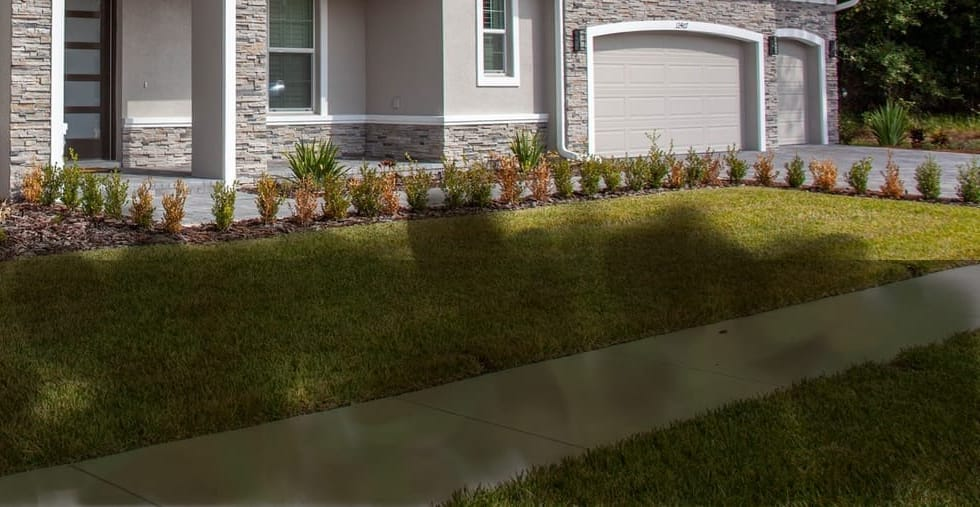
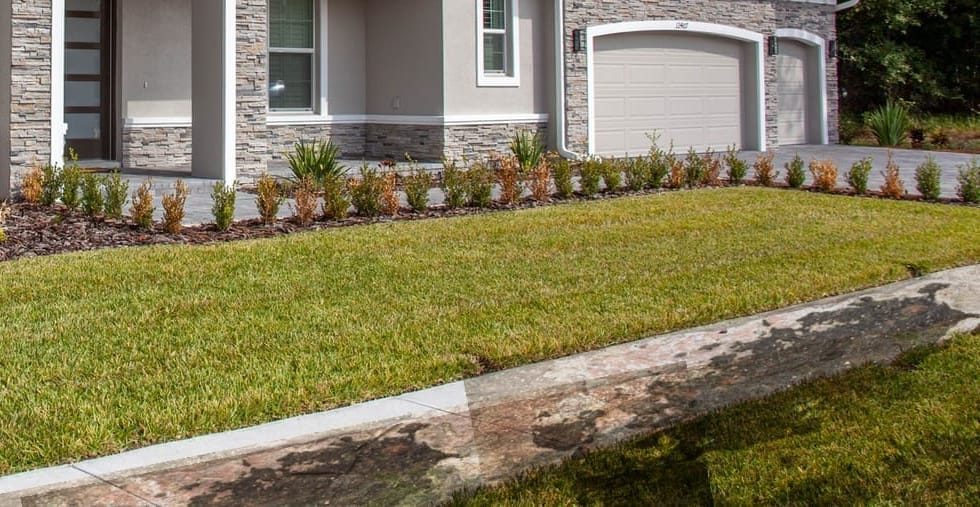
Real lockup in header/footer, cinematic hero footage, photoreal grime
- Header & footer now use the actual brand lockup asset (Asset 9), not a
  typeset recreation
- Hero footage swapped to the backlit sunlit-spray 4K clip (high-quality
  encode); pool clip moved to the CTA band under heavy treatment
- Before/after grime rebuilt: real moss/algae photo texture multiplied
  through the sidewalk's pixel mask with foreshortening — no painted blobs
- Quote form service chips in a balanced grid (no orphan row), fleet list
  filled out; non-breaking space kills the hero orphan word

diff --git a/src/components/Nav.tsx b/src/components/Nav.tsx
@@ -48,26 +48,18 @@ export default function Nav() {
           scrolled ? "py-3" : "py-4 md:py-5"
         }`}
       >
-        {/* lockup — the real mark with room to breathe */}
-        <Link href="/" className="group flex shrink-0 items-center gap-3.5" aria-label="TM Home Detailz home">
+        {/* the real lockup, exactly as the brand kit draws it */}
+        <Link href="/" className="group flex shrink-0 items-center" aria-label="TM Home Detailz home">
           <Image
-            src="/images/logo-white.png"
-            alt=""
-            width={112}
-            height={112}
+            src="/images/logo-main.png"
+            alt="TM Home Detailz — [email redacted] · 352-602-9854"
+            width={1500}
+            height={307}
             priority
-            className={`w-auto object-contain drop-shadow-[0_2px_12px_rgba(2,171,223,0.35)] transition-all duration-500 group-hover:-rotate-3 ${
-              scrolled ? "h-12 md:h-13" : "h-13 md:h-16"
+            className={`w-auto object-contain drop-shadow-[0_2px_10px_rgba(2,171,223,0.25)] transition-all duration-500 ${
+              scrolled ? "h-10 md:h-11" : "h-11 md:h-14"
             }`}
           />
-          <span className="leading-none">
-            <span className="display block text-lg tracking-tight text-foam md:text-xl">
-              TM Home <span className="text-hydro">Detailz</span>
-            </span>
-            <span className="mt-1.5 block text-[0.6rem] font-semibold uppercase tracking-[0.28em] text-mist">
-              Pressure Washing · Lake County FL
-            </span>
-          </span>
         </Link>
 
         <nav className="hidden items-center gap-9 xl:flex" aria-label="Primary">

diff --git a/src/components/Footer.tsx b/src/components/Footer.tsx
@@ -19,12 +19,15 @@ export default function Footer() {
         <div className="mx-auto max-w-7xl px-5 pb-10 pt-16 md:px-8">
           <div className="grid gap-12 md:grid-cols-[1.4fr_1fr_1fr] lg:gap-20">
             <div>
-              <div className="flex items-center gap-4">
-                <Image src="/images/logo-white.png" alt="TM Home Detailz logo" width={96} height={96} className="h-20 w-20 object-contain" />
-                <div>
-                  <p className="display text-2xl text-foam">TM Home Detailz</p>
-                  <p className="label mt-1 text-hydro">The Detailz make the difference</p>
-                </div>
+              <div>
+                <Image
+                  src="/images/logo-main.png"
+                  alt="TM Home Detailz — [email redacted] · 352-602-9854"
+                  width={1500}
+                  height={307}
+                  className="h-14 w-auto object-contain md:h-16"
+                />
+                <p className="label mt-4 text-hydro">The Detailz make the difference</p>
               </div>
               <p className="mt-6 max-w-sm text-sm leading-relaxed text-mist">
                 Family-owned commercial pressure washing based in {SITE.base} — building washes,

diff --git a/src/components/Hero.tsx b/src/components/Hero.tsx
@@ -29,7 +29,7 @@ export default function Hero() {
     <section ref={ref} className="relative flex min-h-[100svh] flex-col overflow-hidden bg-abyss">
       {/* ---------- mobile backdrop: the pool-deck footage under water glass ---------- */}
       <div className="absolute inset-0 md:hidden" aria-hidden="true">
-        <Image src="/images/hero-poster.jpg" alt="" fill priority className="object-cover object-[62%_center]" sizes="100vw" />
+        <Image src="/images/hero-spray-poster.jpg" alt="" fill priority className="object-cover object-[62%_center]" sizes="100vw" />
         {desktop === false && (
           <video
             autoPlay
@@ -37,10 +37,10 @@ export default function Hero() {
             loop
             playsInline
             preload="metadata"
-            poster="/images/hero-poster.jpg"
+            poster="/images/hero-spray-poster.jpg"
             className="absolute inset-0 h-full w-full object-cover object-[62%_center]"
           >
-            <source src="/videos/hero-pool.mp4" type="video/mp4" />
+            <source src="/videos/hero-spray.mp4" type="video/mp4" />
           </video>
         )}
         <div className="absolute inset-0 bg-abyss/55" />
@@ -51,7 +51,7 @@ export default function Hero() {
       <div className="absolute inset-y-0 right-0 hidden w-[57%] md:block" aria-hidden="true">
         <div className="absolute inset-y-0 -right-40 left-0 origin-top-left skew-x-[7deg] overflow-hidden">
           <div className="absolute -inset-x-24 inset-y-0 origin-top-left -skew-x-[7deg]">
-            <Image src="/images/hero-poster.jpg" alt="" fill priority className="object-cover object-[55%_60%]" sizes="60vw" />
+            <Image src="/images/hero-spray-poster.jpg" alt="" fill priority className="object-cover object-[55%_60%]" sizes="60vw" />
             {desktop === true && (
               <video
                 autoPlay
@@ -59,10 +59,10 @@ export default function Hero() {
                 loop
                 playsInline
                 preload="metadata"
-                poster="/images/hero-poster.jpg"
+                poster="/images/hero-spray-poster.jpg"
                 className="absolute inset-0 h-full w-full object-cover object-[55%_60%]"
               >
-                <source src="/videos/hero-pool.mp4" type="video/mp4" />
+                <source src="/videos/hero-spray.mp4" type="video/mp4" />
               </video>
             )}
           </div>
@@ -157,8 +157,7 @@ export default function Hero() {
             transition={{ duration: 0.8, delay: 2.5 }}
             className="mt-7 max-w-md text-base leading-relaxed text-mist md:text-lg"
           >
-            Driveways, homes, storefronts, and whole fleets — washed hot, washed right,
-            and photographed to prove it.
+            Driveways, homes, storefronts, and whole fleets — washed hot, washed right, and photographed to prove it.
           </motion.p>
 
           <motion.div

diff --git a/src/components/QuoteForm.tsx b/src/components/QuoteForm.tsx
@@ -39,7 +39,7 @@ const PROPERTY_TYPES = [
         <circle cx="17" cy="17.5" r="1.8" stroke="currentColor" strokeWidth="2" />
       </svg>
     ),
-    services: ["Trucks & trailers", "Heavy equipment", "Vans / box trucks", "Weekly or monthly route"],
+    services: ["Trucks & trailers", "Heavy equipment", "Vans / box trucks", "Dump trucks", "Yard / lot wash", "Recurring route"],
   },
 ];
 
@@ -139,7 +139,7 @@ export default function QuoteForm() {
             <p className="display mt-8 text-lg text-ink">
               What needs the wash? <span className="text-sm font-semibold normal-case text-slate">(tap all that apply)</span>
             </p>
-            <div className="mt-4 flex flex-wrap gap-2.5">
+            <div className="mt-4 grid grid-cols-2 gap-2.5 sm:grid-cols-3">
               {active.services.map((s) => {
                 const on = services.includes(s);
                 return (
@@ -148,7 +148,7 @@ export default function QuoteForm() {
                     type="button"
                     onClick={() => toggle(s)}
                     aria-pressed={on}
-                    className={`rounded-full border px-4 py-2.5 text-xs font-bold uppercase tracking-wider transition-all duration-200 ${
+                    className={`rounded-full border px-3 py-2.5 text-center text-xs font-bold uppercase tracking-wider transition-all duration-200 ${
                       on ? "border-hydro bg-hydro text-abyss" : "border-slate/30 text-slate hover:border-hydro/60 hover:text-brand"
                     }`}
                   >

diff --git a/src/components/CtaBand.tsx b/src/components/CtaBand.tsx
@@ -23,10 +23,10 @@ export default function CtaBand() {
           loop
           playsInline
           preload="metadata"
-          className="absolute inset-0 h-full w-full object-cover opacity-45"
+          className="absolute inset-0 h-full w-full object-cover opacity-40"
           aria-hidden="true"
         >
-          <source src="/videos/spray-sun.mp4" type="video/mp4" />
+          <source src="/videos/hero-pool.mp4" type="video/mp4" />
         </video>
       )}
       <div className="absolute inset-0 bg-gradient-to-b from-abyss via-abyss/60 to-abyss" aria-hidden="true" />